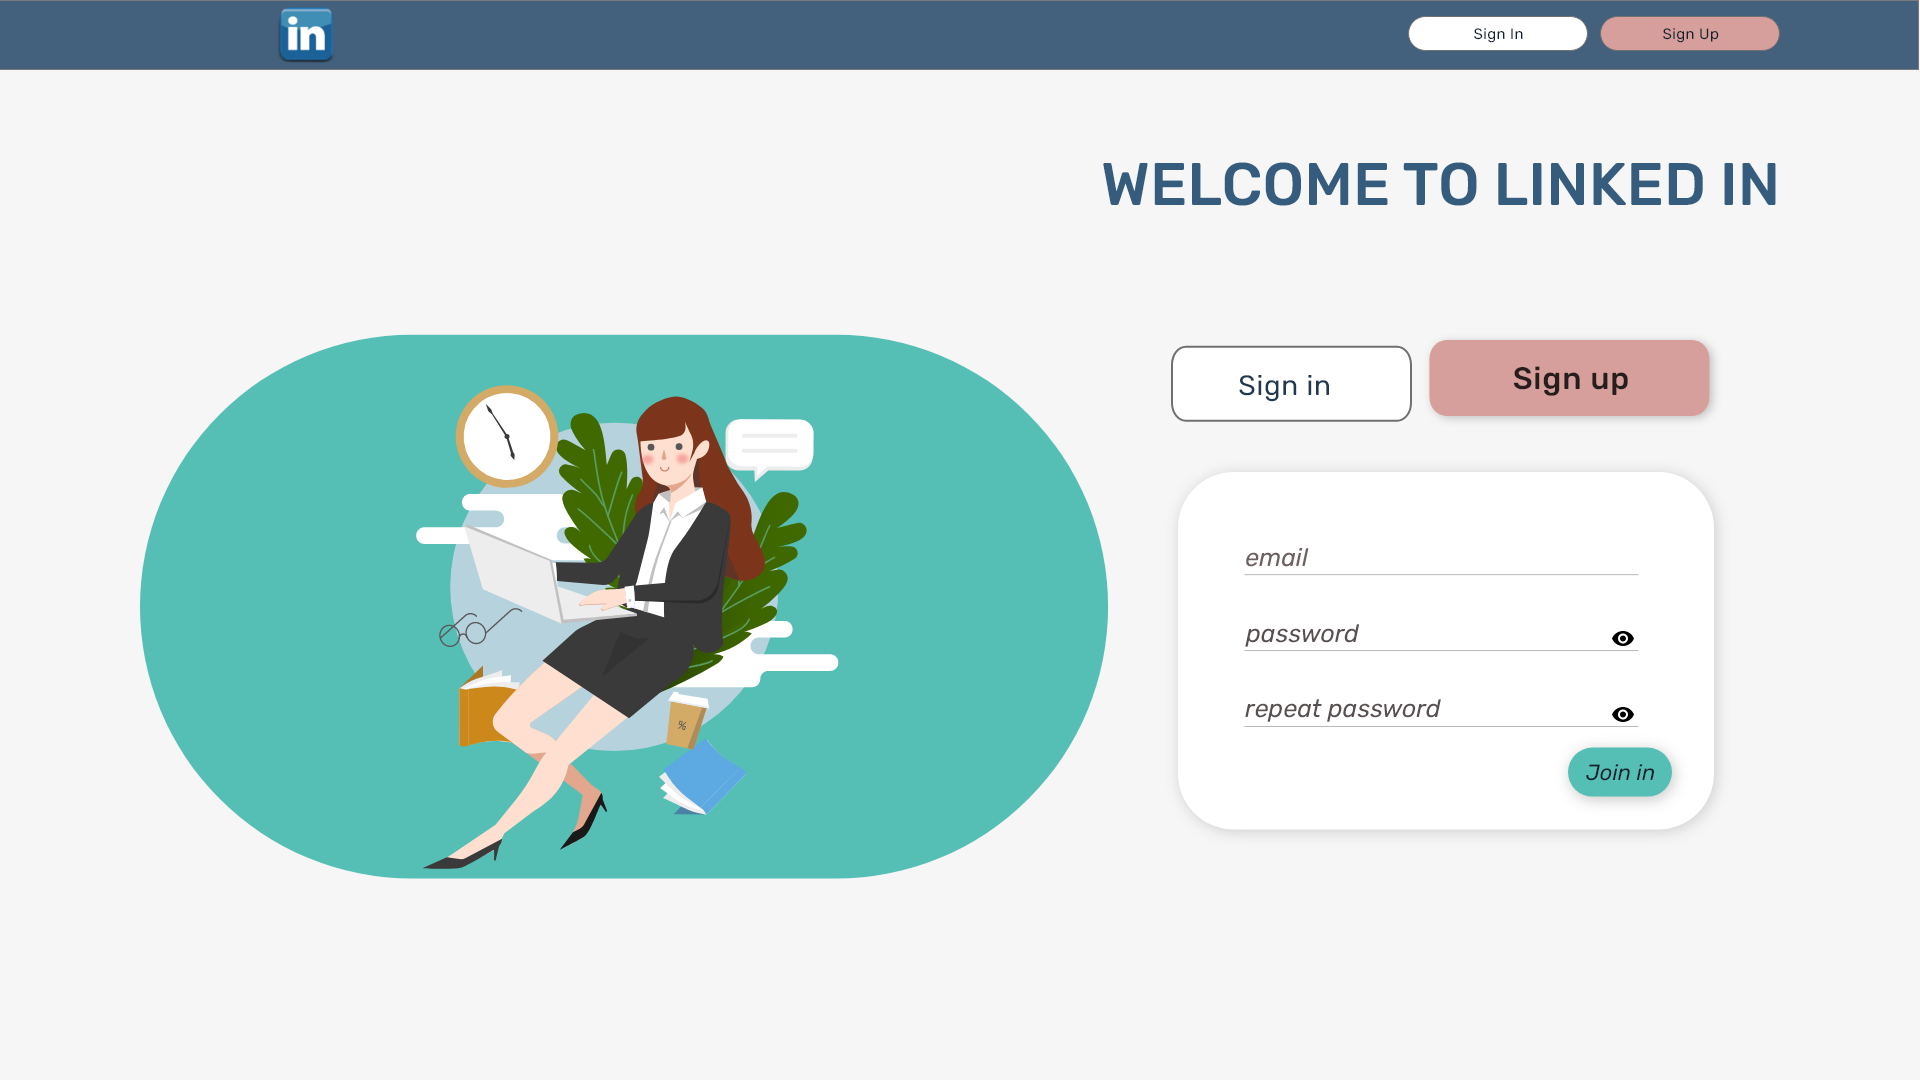
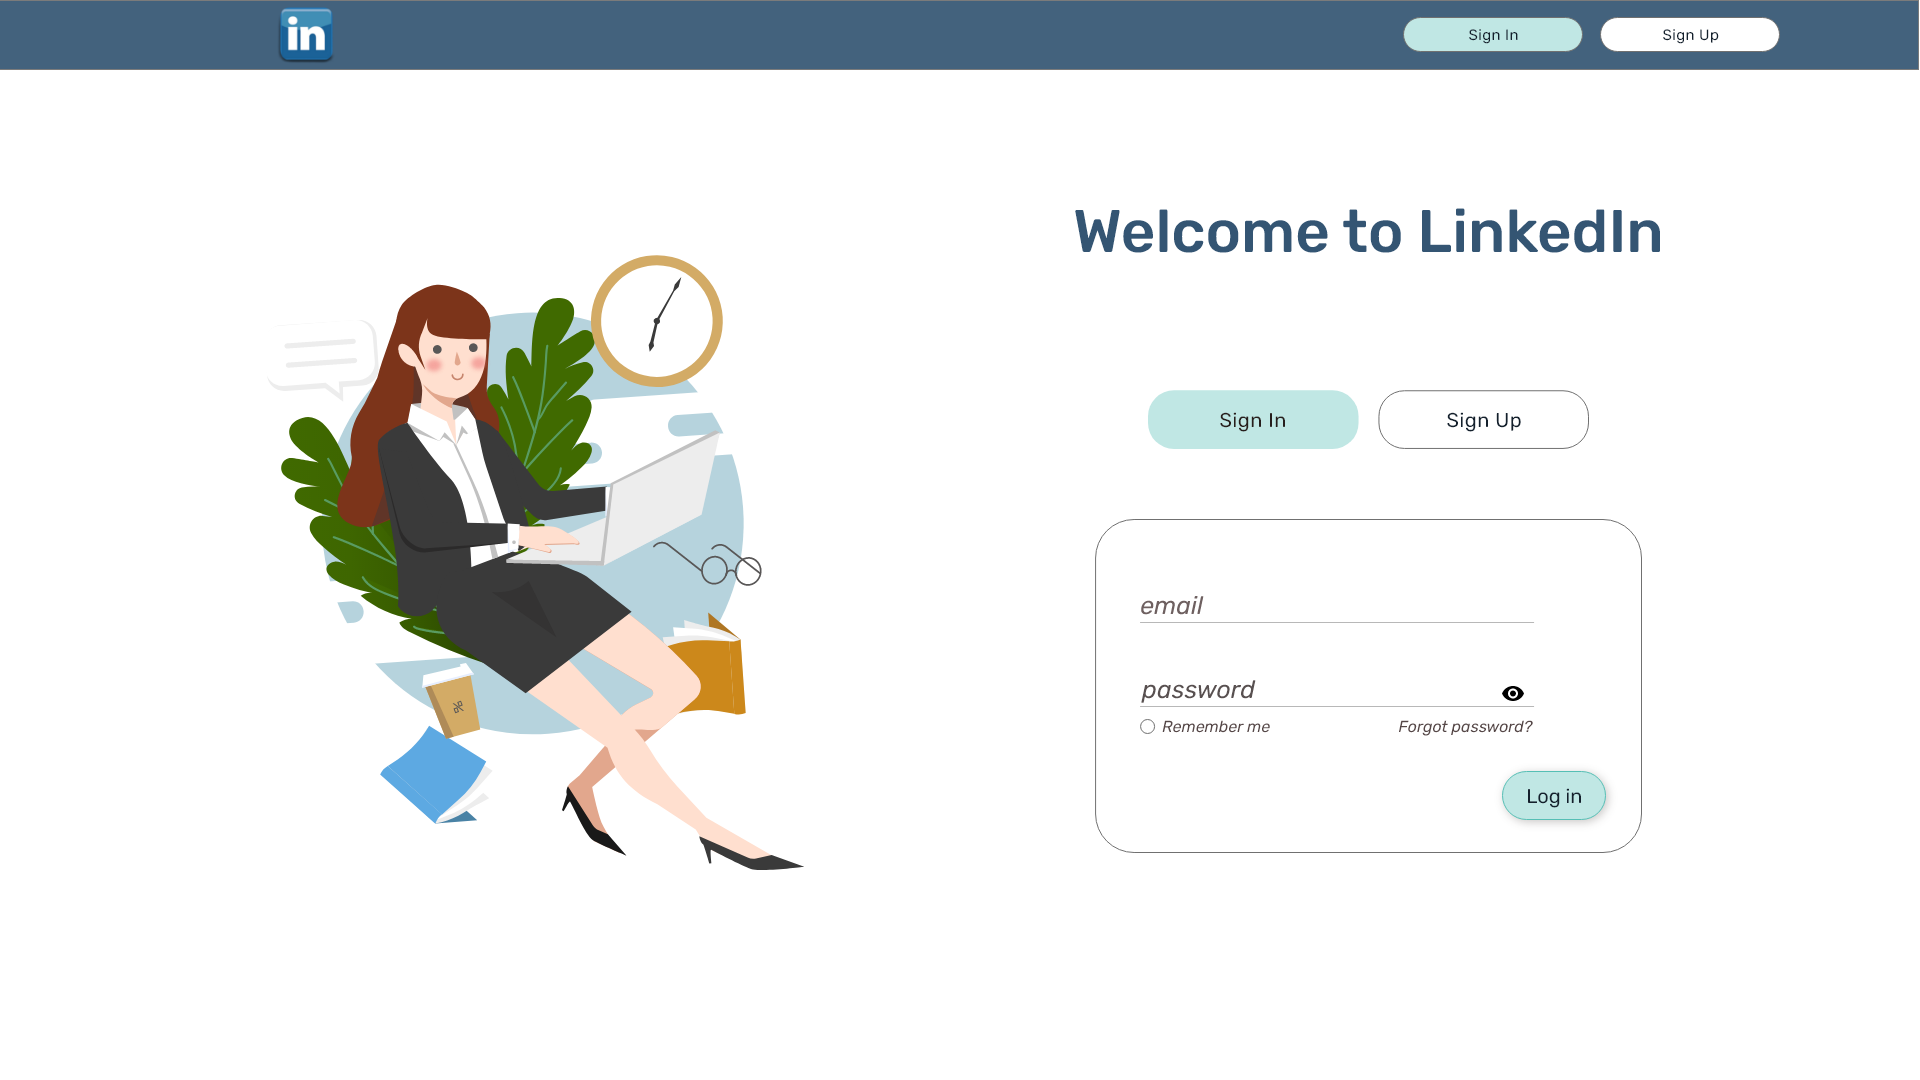
picture change

diff --git a/index.html b/index.html
@@ -157,7 +157,7 @@
            
 
           <div class="block-3 d-md-flex ftco-animate" data-scrollax-parent="true">
-            <a href="portfolio-single.html" class="image order-2 d-flex justify-content-center align-items-center" style="background-image: url('images/linked.png'); " data-scrollax=" properties: { translateY: '-30%'}">
+            <a href="portfolio_single.html" class="image order-2 d-flex justify-content-center align-items-center" style="background-image: url('images/linked.png'); " data-scrollax=" properties: { translateY: '-30%'}">
               <div class="icon d-flex text-center justify-content-center align-items-center">
                 <span class="icon-search"></span>
               </div>

diff --git a/portfolio_single.html b/portfolio_single.html
@@ -131,7 +131,7 @@
               
               <h4>The LinkedIn log in page</h4> <p>is the page that has too much informations, so i just made it simple and easy to use.   </p><br> 
               <p>
-                  <img src="images/front.png" alt="login page" class="img-fluid">
+                  <img src="images/login.png" alt="login page" class="img-fluid">
               </p>
               <br>
               <br>
